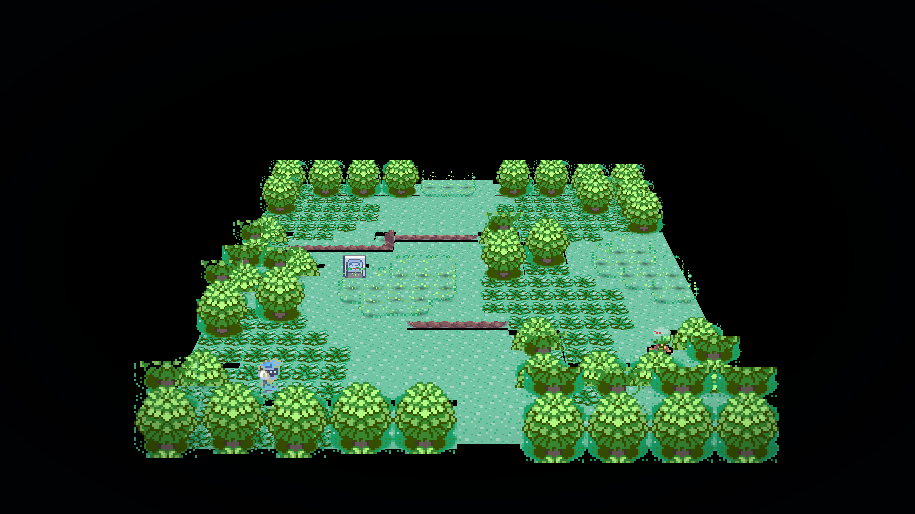
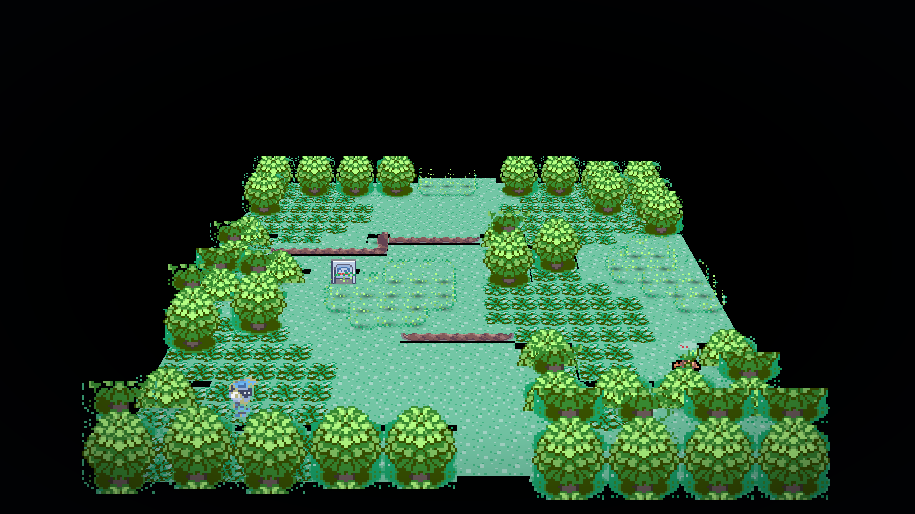
Fix edge framing and add behind-object dithering

diff --git a/docs/GEN3HD-RUNTIME.md b/docs/GEN3HD-RUNTIME.md
@@ -132,6 +132,20 @@ scoring of its unique metatiles.
 - **RPG Maker XP / Pokémon Essentials / Godot / Unity fangames**: not GBA
   ROMs. They need a separate importer; this runtime cannot boot them.
 
+## Player-behind-object dither
+
+When the player card is behind a nearer tree/building card, the viewer draws a
+screen-door dither ghost of the player over the occluder, with a one-texel dark
+rim. It is toggleable:
+
+- `T` in the running viewer toggles the effect.
+- `--no-dither` starts with it off.
+- `--force-dither` forces the ghost on for stills.
+
+Occlusion is a screen-space test against card rectangles; transparent gaps in a
+card can still trigger it. It is intentionally limited to the player sprite for
+now.
+
 ## Current limitations
 
 - The Godot viewer renders a **compiled snapshot**, not the live emulator

diff --git a/README.md b/README.md
@@ -24,7 +24,12 @@ The same pipeline compiles Littleroot Town. Buildings stay exact 2D cards by
 default, so arbitrary romhack structures keep their original edges; `--buildings=mesh`
 is an opt-in for known house-shaped structures:
 
-![Littleroot Town compiled in the fixed top-down view](docs/images/gen3hd-littleroot.png)
+![Littleroot Town compiled in the fixed raised-perspective view](docs/images/gen3hd-littleroot.png)
+
+When the player is behind a tree or building, a dithered silhouette is drawn
+through the occluder (`T` toggles it; `--no-dither` disables it):
+
+![Player-behind-object dither comparison](docs/images/gen3hd-dither.png)
 
 The goal is not to upscale the final 240×160 frame. It is to take the GBA PPU's
 already-separated background layers, reconstruct a small 3D diorama from them,
